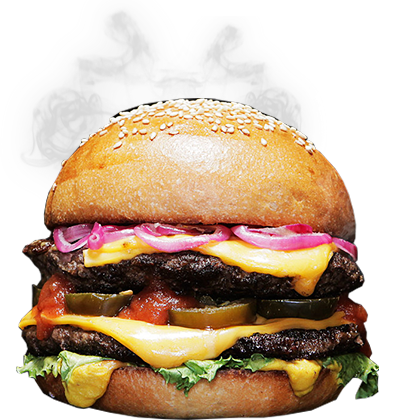
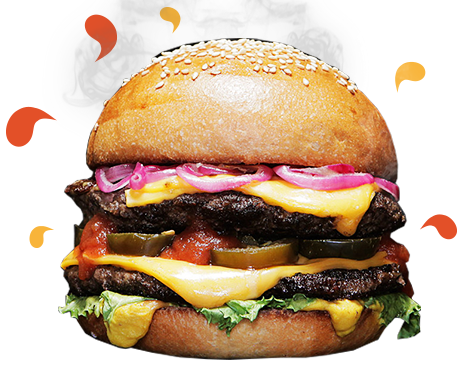
Added: burger drops, user reviews

diff --git a/index.html b/index.html
@@ -20,7 +20,9 @@
         <div class="screen1__container">
             <header class="header">
                 <div class="header__logo">
+                    <a href="index.html">
                     <img src="images/icons/logo.svg" alt="">
+                    </a>
                 </div>
                 <div class="header__right">
                     <ul class="header__menu">
@@ -117,7 +119,7 @@
                     </div>
                     <div class="screen2__col">
                         <div class="screen2__col-text">
-                            Наши бургеры создаются только из самых свежих и обязательно натуральных фермерских продуктов
+                            Мы используем только самые свежие и обязательно натуральные фермерские продукты
                         </div>
                     </div>
                 </div>
@@ -129,19 +131,60 @@
         <div class="screen3__container">
             <div class="screen3__photos">
                 <div class="screen3__photo screen3__user1 greyscale">
+                    <div class="screen3__review">
+                        <div class="screen3__title">юля поспелова</div>
+                        <div class="screen3__text">Если нужно «задобрить» мужа, заказываю домой доставку бургеров. Ну, и пивка, конечно. Действует безотказно!</div>
+                        <div class="screen3__more">подробнее</div>
+                    </div>                    
                 </div>
                 <div class="screen3__photo screen3__user2 greyscale">
-                    <div class="screen3__title">константин спилберг</div>
-                    <div class="screen3__text">Мысли все о них и о них, о них и о них. Нельзя устоять, невозможно забыть... Никогда не думал, что булочки
-                        могут быть такими мягкими, котлетка такой сочной, а сыр таким расплавленным.</div>
-                    <div class="screen3__more">подробнее</div>
+                    <div class="screen3__review">
+                        <div class="screen3__title">константин спилберг</div>
+                        <div class="screen3__text">Мысли все о них и о них, о них и о них. Нельзя устоять, невозможно забыть... Никогда не думал, что
+                            булочки могут быть такими мягкими, котлетка такой сочной, а сыр таким расплавленным.</div>
+                        <div class="screen3__more">подробнее</div>
+                    </div>
                 </div>
-                <div class="screen3__photo screen3__user3 greyscale"></div>
-                <div class="screen3__photo screen3__user4 greyscale"></div>
-                <div class="screen3__photo screen3__user5 greyscale"></div>
-                <div class="screen3__photo screen3__user6 greyscale"></div>
-                <div class="screen3__photo screen3__user7 greyscale"></div>
-                <div class="screen3__photo screen3__user8 greyscale"></div>
+                <div class="screen3__photo screen3__user3 greyscale">
+                    <div class="screen3__review">
+                        <div class="screen3__title">лена грин</div>
+                        <div class="screen3__text">Знакомые постоянно спрашивают, как мне удается оставаться такой молодой и стройной в мои 46?! Мои друзья уже знают, что секрет весьма прост — бургерная диета!</div>
+                        <div class="screen3__more">подробнее</div>
+                    </div>                    
+                </div>
+                <div class="screen3__photo screen3__user4 greyscale">
+                    <div class="screen3__review">
+                        <div class="screen3__title">гриша бэдбит</div>
+                        <div class="screen3__text">Спрашивал у пацанов, как раскачаться. Все сошлись на том, что правильное питание даже важнее, чем нагрузки. Так что тренировки начал в Mr.Burger, ведь бургеры содержат все необходимые нутриенты.</div>
+                        <div class="screen3__more">подробнее</div>
+                    </div>                    
+                </div>
+                <div class="screen3__photo screen3__user5 greyscale">
+                    <div class="screen3__review">
+                        <div class="screen3__title">егор козырев</div>
+                        <div class="screen3__text">Сперва был тренд на пиццу. Потом был тренд на роллы. Теперь настало время бургеров. Будь в тренде, чо.</div>
+                        <div class="screen3__more">подробнее</div>
+                    </div>                       
+                </div>
+                <div class="screen3__photo screen3__user6 greyscale">
+                    <div class="screen3__review">
+                        <div class="screen3__title">ева спаржа</div>
+                        <div class="screen3__text">Вообще-то я веган. Но один раз в неделю традиционно устраиваю себе поблажку и с удовольствием кушаю в Mr.Burger. Их говяжьи котлеты — это нечто! Go Vegan!</div>
+                        <div class="screen3__more">подробнее</div>
+                    </div>                       
+                </div>
+                <div class="screen3__photo screen3__user7 greyscale">
+                    <div class="screen3__review">
+                        <div class="screen3__title">иван федорович</div>
+                        <div class="screen3__text">Эти ребята творят из мяса нечто невероятное! Никогда не ел такого! Иногда ловлю себя на мысли, что я бы отдал им своего сумасшедшего пса!</div>
+                        <div class="screen3__more">подробнее</div>
+                    </div>                      
+                </div>
+                <div class="screen3__photo screen3__user8 greyscale">                    <div class="screen3__review">
+                        <div class="screen3__title">джейк джилленхол</div>
+                        <div class="screen3__text">В последнее время стал чаще летать на премьеры своих фильмов в Россию. Специально, чтобы покушать в Mr.Burger! Уверяю вас, у нас таких бургеров нет!</div>
+                        <div class="screen3__more">подробнее</div>
+                    </div>  </div>
             </div>
         </div>
     </section>

diff --git a/css/pages/screen3.css b/css/pages/screen3.css
@@ -41,36 +41,43 @@
         -o-transition: .5s ease-in-out;
         filter: grayscale(100%);
         transition: .5s ease-in-out; }
-      .screen3 .screen3__container .screen3__photos .screen3__title {
-        font-family: "Gagalin";
-        font-size: 14px;
-        font-weight: 100;
-        color: #fff;
-        padding: 25px 0 20px 0;
-        text-align: left; }
-      .screen3 .screen3__container .screen3__photos .screen3__text {
-        font-family: "Ubuntu";
-        font-weight: 100;
-        font-size: 14px;
-        line-height: 1.71;
-        color: #fff;
-        text-align: left;
-        padding-bottom: 20px; }
-      .screen3 .screen3__container .screen3__photos .screen3__more {
-        display: inline-block;
-        width: 110px;
-        height: 35px;
-        background: #2f3234;
-        border-radius: 5px;
-        color: #fff;
-        font-family: "Ubuntu";
-        font-weifgt: 200;
-        font-size: 13px;
-        line-height: 35px;
-        text-align: center;
-        text-transform: uppercase;
-        -webkit-transition: .5s;
-        -o-transition: .5s;
-        transition: .5s; }
-        .screen3 .screen3__container .screen3__photos .screen3__more:hover {
-          background: #474c4f; }
+      .screen3 .screen3__container .screen3__photos .screen3__review {
+        opacity: 0;
+        -webkit-transition: .7s;
+        -o-transition: .7s;
+        transition: .7s; }
+        .screen3 .screen3__container .screen3__photos .screen3__review:hover {
+          opacity: 1; }
+        .screen3 .screen3__container .screen3__photos .screen3__review .screen3__title {
+          font-family: "Gagalin";
+          font-size: 14px;
+          font-weight: 100;
+          color: #fff;
+          padding: 25px 0 20px 0;
+          text-align: left; }
+        .screen3 .screen3__container .screen3__photos .screen3__review .screen3__text {
+          font-family: "Ubuntu";
+          font-weight: 100;
+          font-size: 14px;
+          line-height: 1.71;
+          color: #fff;
+          text-align: left;
+          padding-bottom: 20px; }
+        .screen3 .screen3__container .screen3__photos .screen3__review .screen3__more {
+          display: inline-block;
+          width: 110px;
+          height: 35px;
+          background: #2f3234;
+          border-radius: 5px;
+          color: #fff;
+          font-family: "Ubuntu";
+          font-weifgt: 200;
+          font-size: 13px;
+          line-height: 35px;
+          text-align: center;
+          text-transform: uppercase;
+          -webkit-transition: .5s;
+          -o-transition: .5s;
+          transition: .5s; }
+          .screen3 .screen3__container .screen3__photos .screen3__review .screen3__more:hover {
+            background: #474c4f; }

diff --git a/css/pages/screen3.sass b/css/pages/screen3.sass
@@ -60,36 +60,42 @@ $grey: #2f3234
         filter: grayscale(100%)
         transition: .5s ease-in-out
 
-      .screen3__title
-        font-family: "Gagalin"
-        font-size: 14px
-        font-weight: 100
-        color: $white
-        padding: 25px 0 20px 0
-        text-align: left
-          
-      .screen3__text
-        font-family: "Ubuntu"
-        font-weight: 100
-        font-size: 14px
-        line-height: 1.71
-        color: $white
-        text-align: left
-        padding-bottom: 20px
-
-      .screen3__more
-        display: inline-block
-        width: 110px
-        height: 35px
-        background: $grey
-        border-radius: 5px
-        color: $white
-        font-family: "Ubuntu"         
-        font-weifgt: 200
-        font-size: 13px
-        line-height: 35px
-        text-align: center
-        text-transform: uppercase
-        transition: .5s
+      .screen3__review
+        opacity: 0
+        transition: .7s
         &:hover
-          background: lighten($grey, 10%)
+          opacity: 1
+
+        .screen3__title
+          font-family: "Gagalin"
+          font-size: 14px
+          font-weight: 100
+          color: $white
+          padding: 25px 0 20px 0
+          text-align: left
+          
+        .screen3__text
+          font-family: "Ubuntu"
+          font-weight: 100
+          font-size: 14px
+          line-height: 1.71
+          color: $white
+          text-align: left
+          padding-bottom: 20px
+
+        .screen3__more
+          display: inline-block
+          width: 110px
+          height: 35px
+          background: $grey
+          border-radius: 5px
+          color: $white
+          font-family: "Ubuntu"         
+          font-weifgt: 200
+          font-size: 13px
+          line-height: 35px
+          text-align: center
+          text-transform: uppercase
+          transition: .5s
+          &:hover
+            background: lighten($grey, 10%)

diff --git a/css/pages/screen1.sass b/css/pages/screen1.sass
@@ -87,12 +87,11 @@ $yellow: #f9b43b
       text-align: left
 
     .content__picture
-      background: url("../../images/steam_burger.png") 59px -11px no-repeat
+      background: url("../../images/steam_burger.png") 20px 50px no-repeat
       display: inline-block
       width: 50%
       height: 450px
       vertical-align: middle
-      // border: 1px solid red
     
     .content__picture2
       background: url("../../images/icons/drops.svg") center center no-repeat
@@ -104,7 +103,6 @@ $yellow: #f9b43b
       vertical-align: middle
       text-align: left
       padding-left: 7px
-      // border: 1px solid red
 
       .content__title1
         color: $yellow
@@ -115,7 +113,6 @@ $yellow: #f9b43b
         letter-spacing: -1.5px
         overflow: hidden
         line-height: 1.2
-        // border: 1px solid white
       
       .content__title2
         color: $white
@@ -125,7 +122,6 @@ $yellow: #f9b43b
         letter-spacing: -1px
         line-height: 0.9
         padding-top: 25px
-        // border: 1px solid white
 
     
     .pagination__list

diff --git a/css/pages/screen1.css b/css/pages/screen1.css
@@ -76,7 +76,7 @@
     .screen1 .screen1__container .content {
       text-align: left; }
     .screen1 .screen1__container .content__picture {
-      background: url("../../images/steam_burger.png") 59px -11px no-repeat;
+      background: url("../../images/steam_burger.png") 20px 50px no-repeat;
       display: inline-block;
       width: 50%;
       height: 450px;

diff --git a/css/pages/screen2.sass b/css/pages/screen2.sass
@@ -64,5 +64,5 @@ $black: #000
           font-size: 14px
           font-weight: 100
           margin-top: 15px
-          padding: 0 30px
-          text-align: center
+          padding-left: 50px
+          text-align: left

diff --git a/css/pages/screen2.css b/css/pages/screen2.css
@@ -47,5 +47,5 @@
           font-size: 14px;
           font-weight: 100;
           margin-top: 15px;
-          padding: 0 30px;
-          text-align: center; }
+          padding-left: 50px;
+          text-align: left; }
